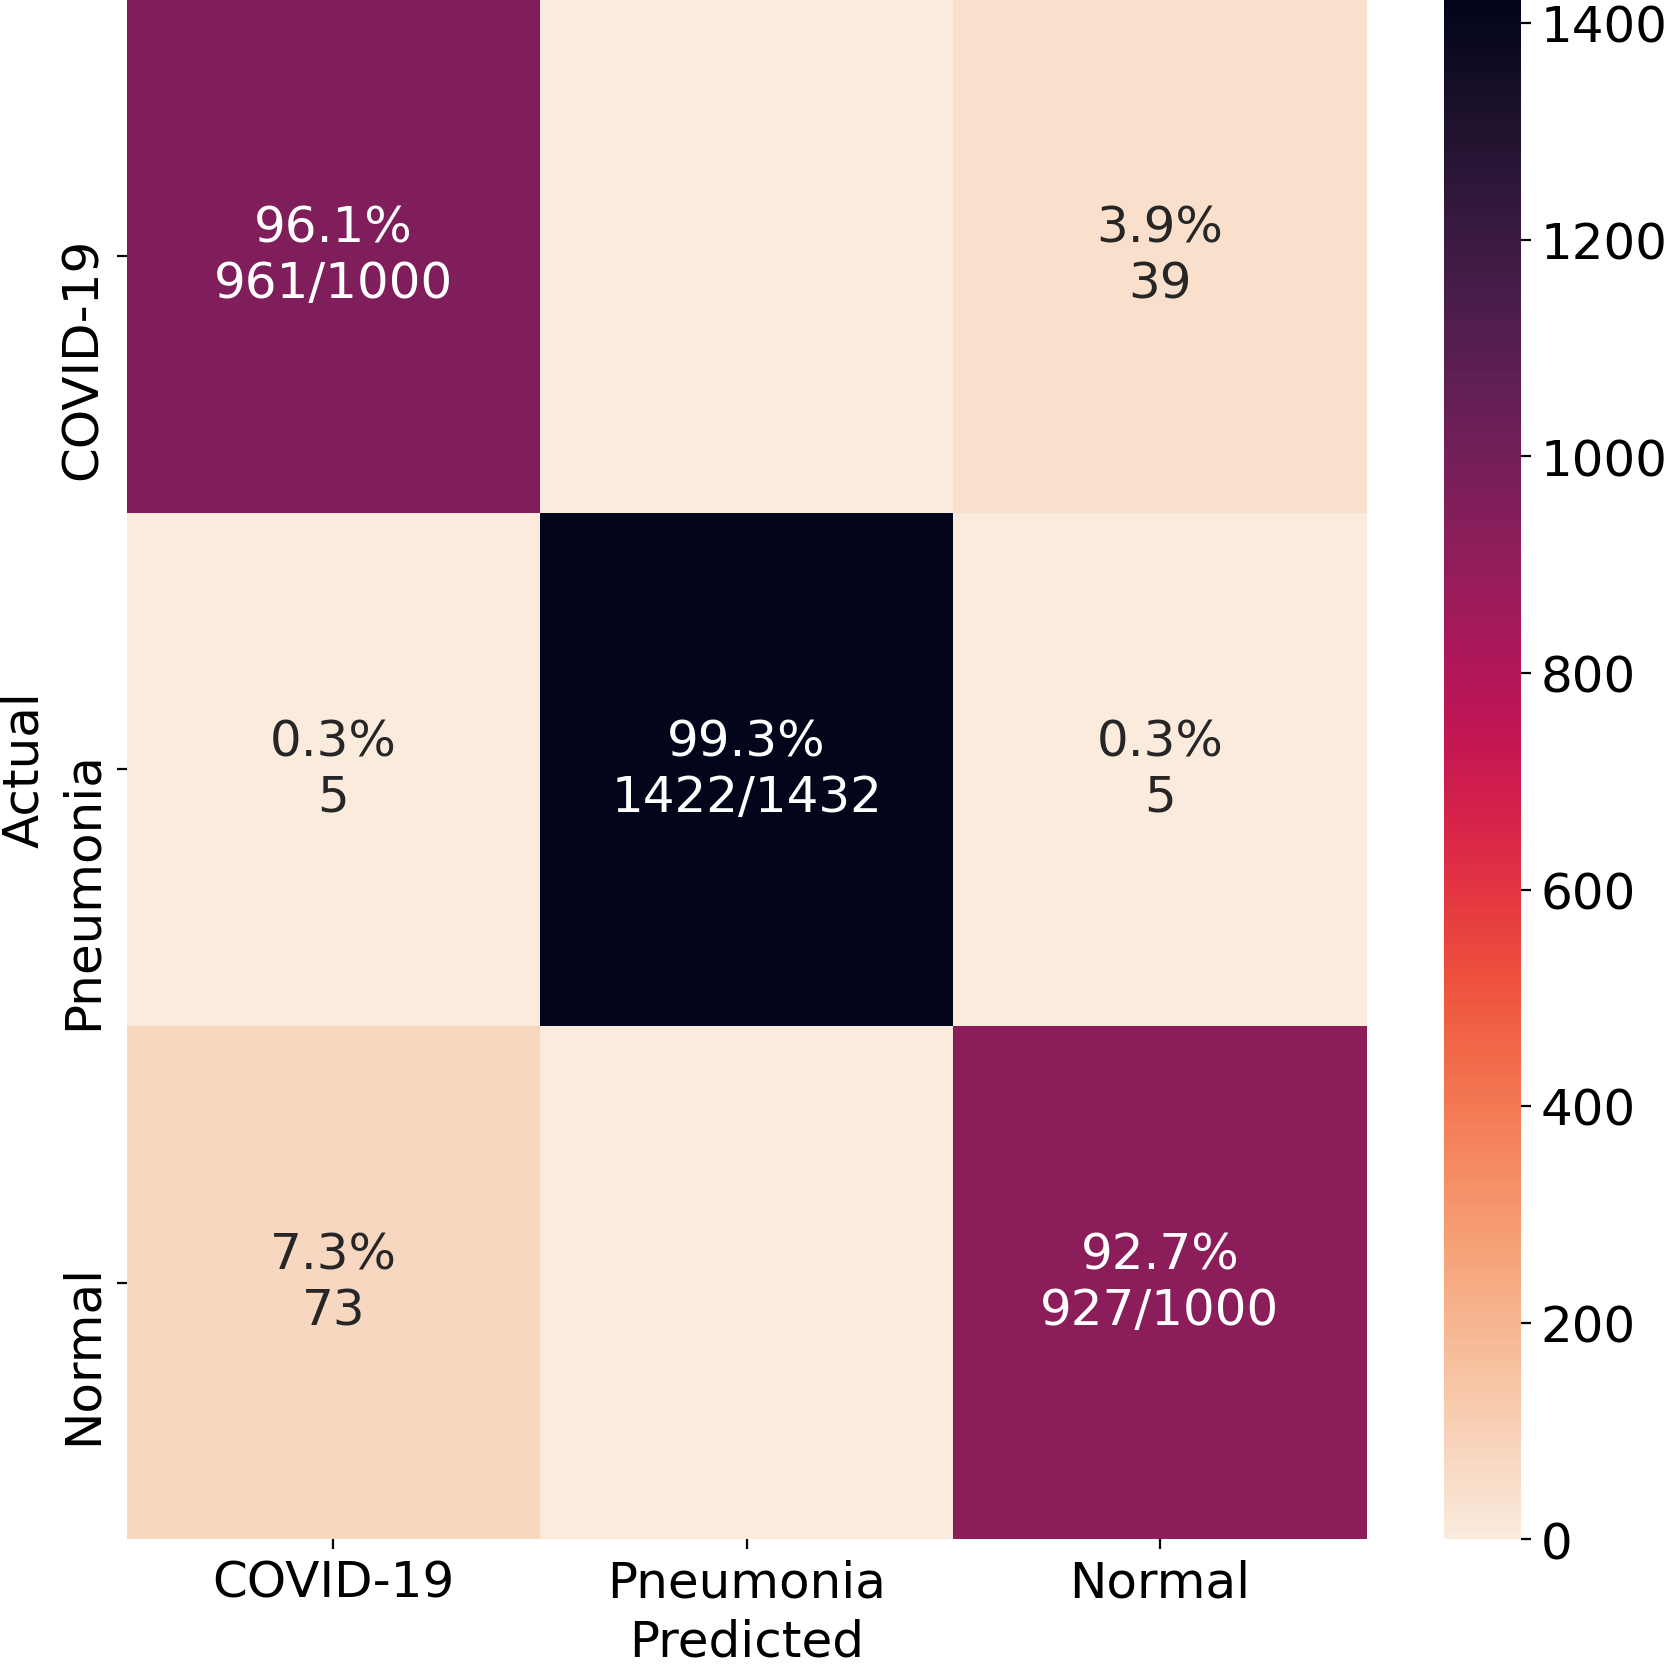
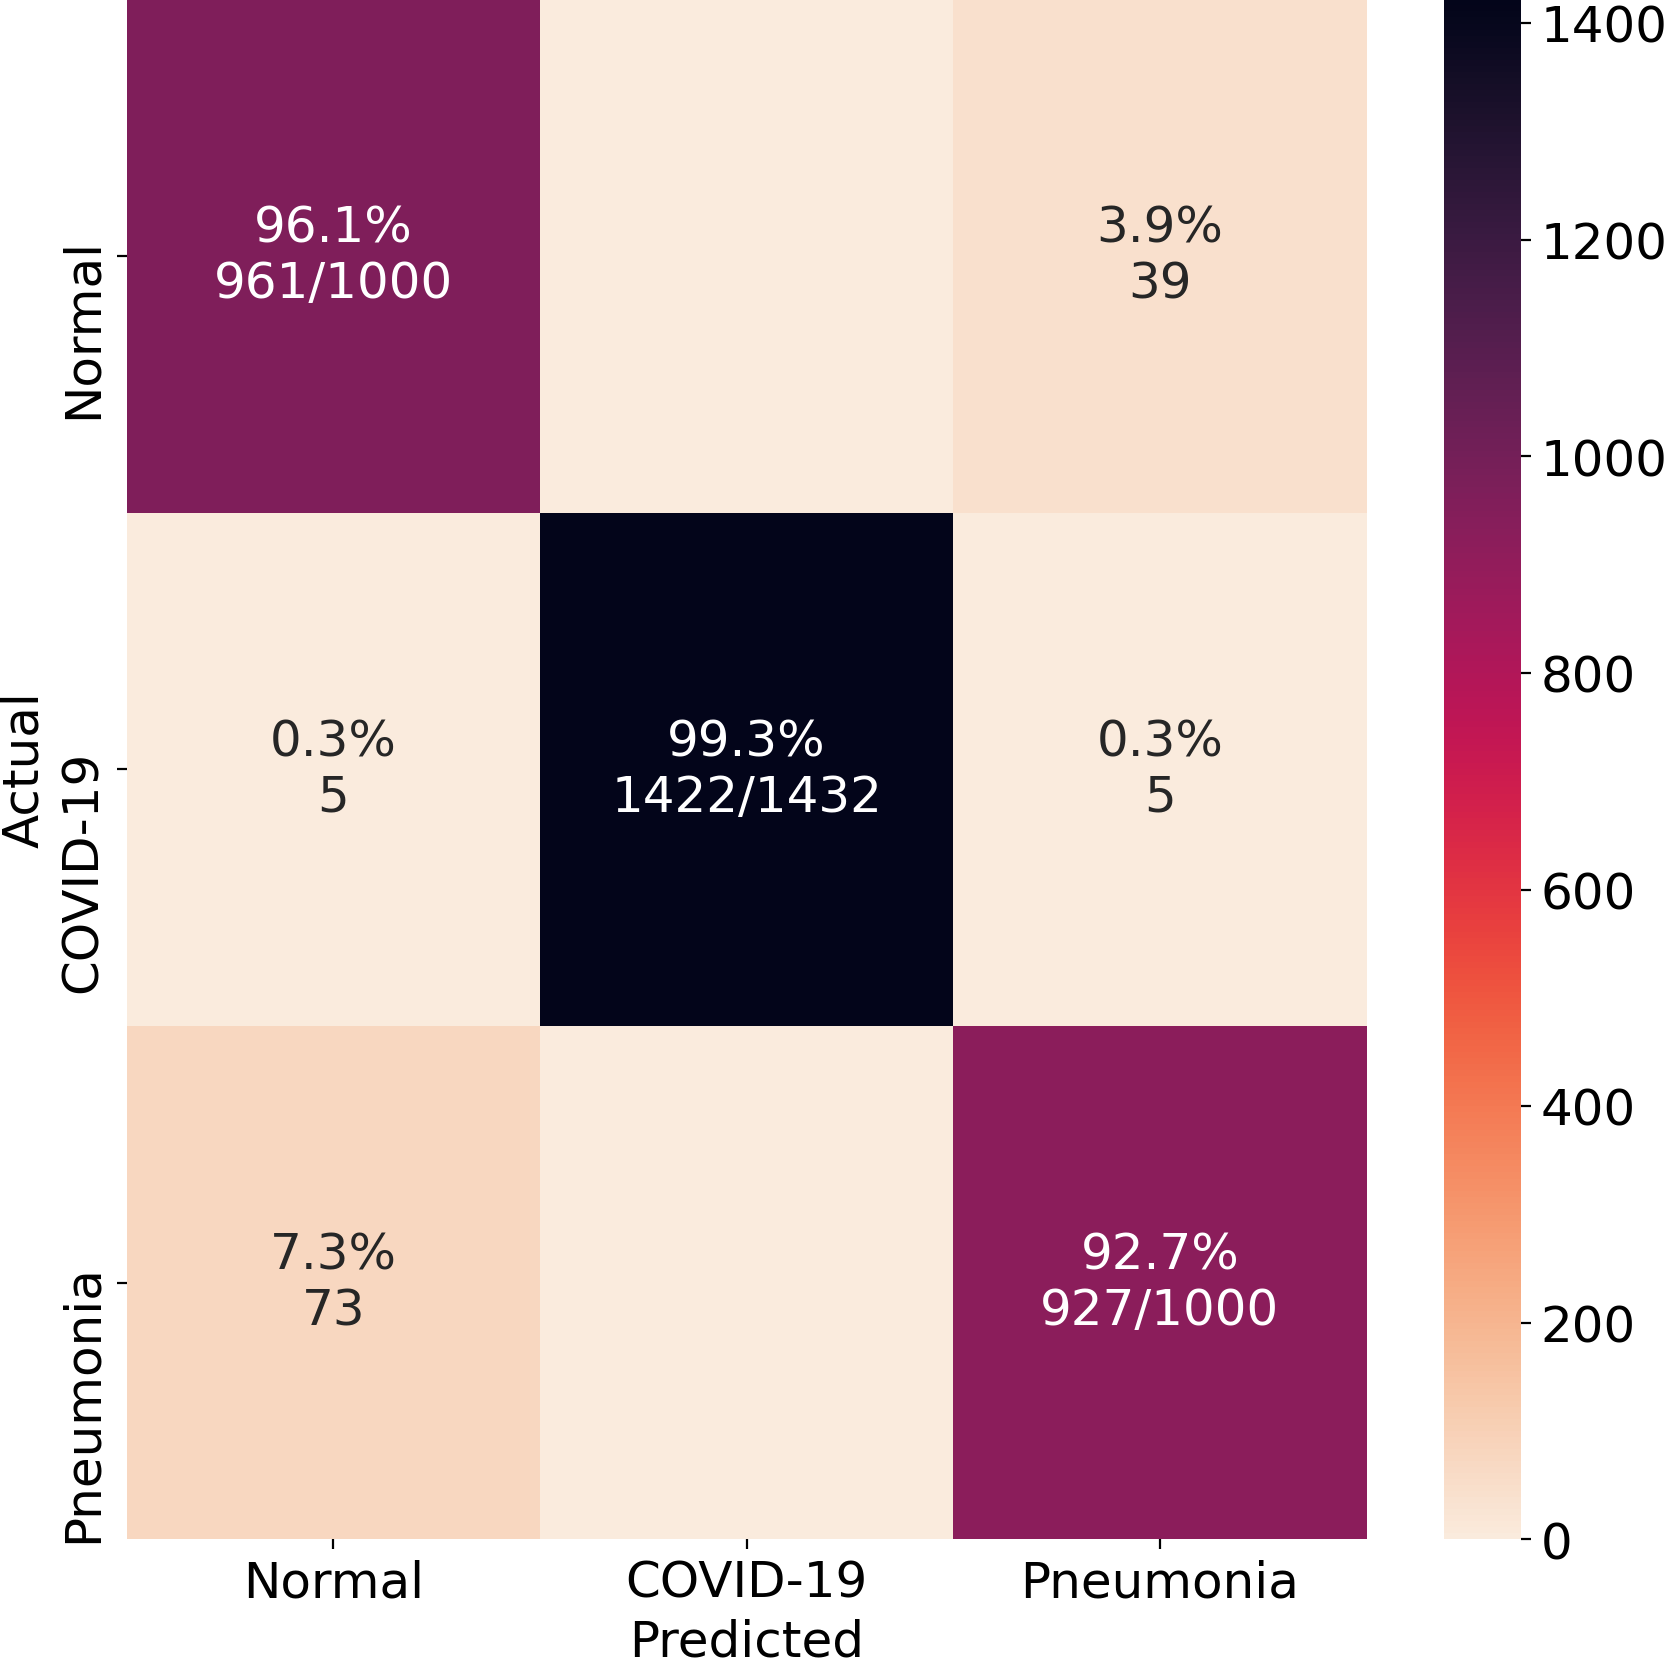
val cm

diff --git a/utility/plot_cm.py b/utility/plot_cm.py
@@ -6,7 +6,7 @@ OUTPUT_LAYERS = '1024-1024-3'
 
 
 index = {'normal': 0, 'covid': 1,  'pneumonia': 2}
-rev_index = {0: 'normal',1: 'covid', 2: 'pneumonia'}
+rev_index = {0: 'Normal',1: 'COVID-19', 2: 'Pneumonia'}
 
 
 import pickle
